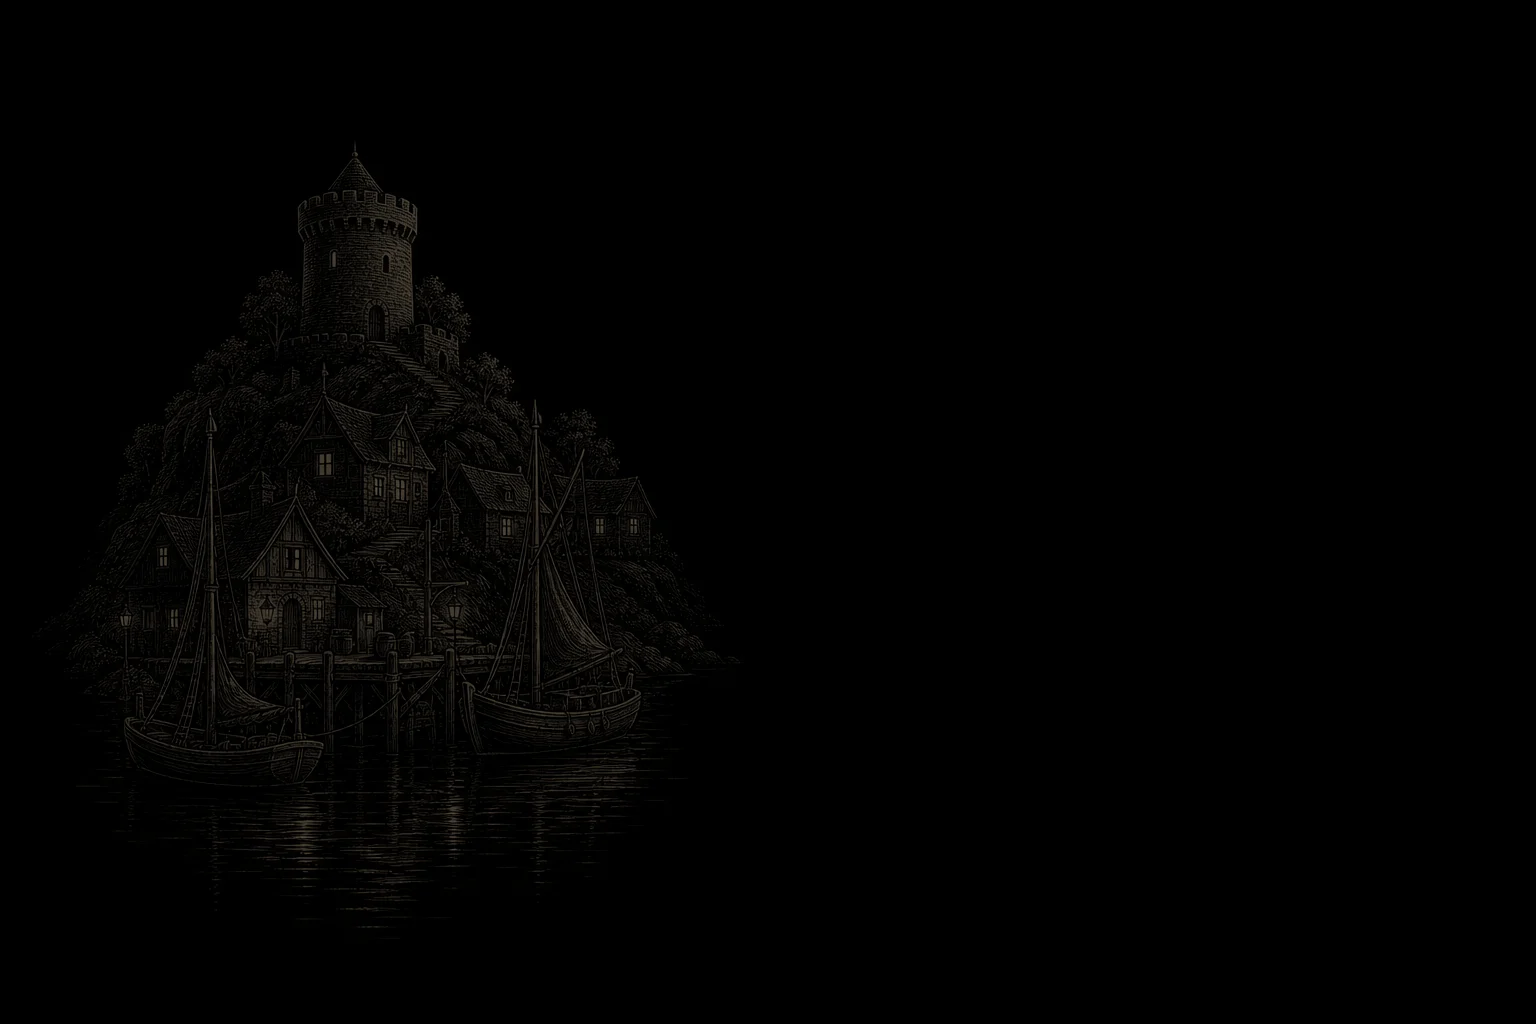
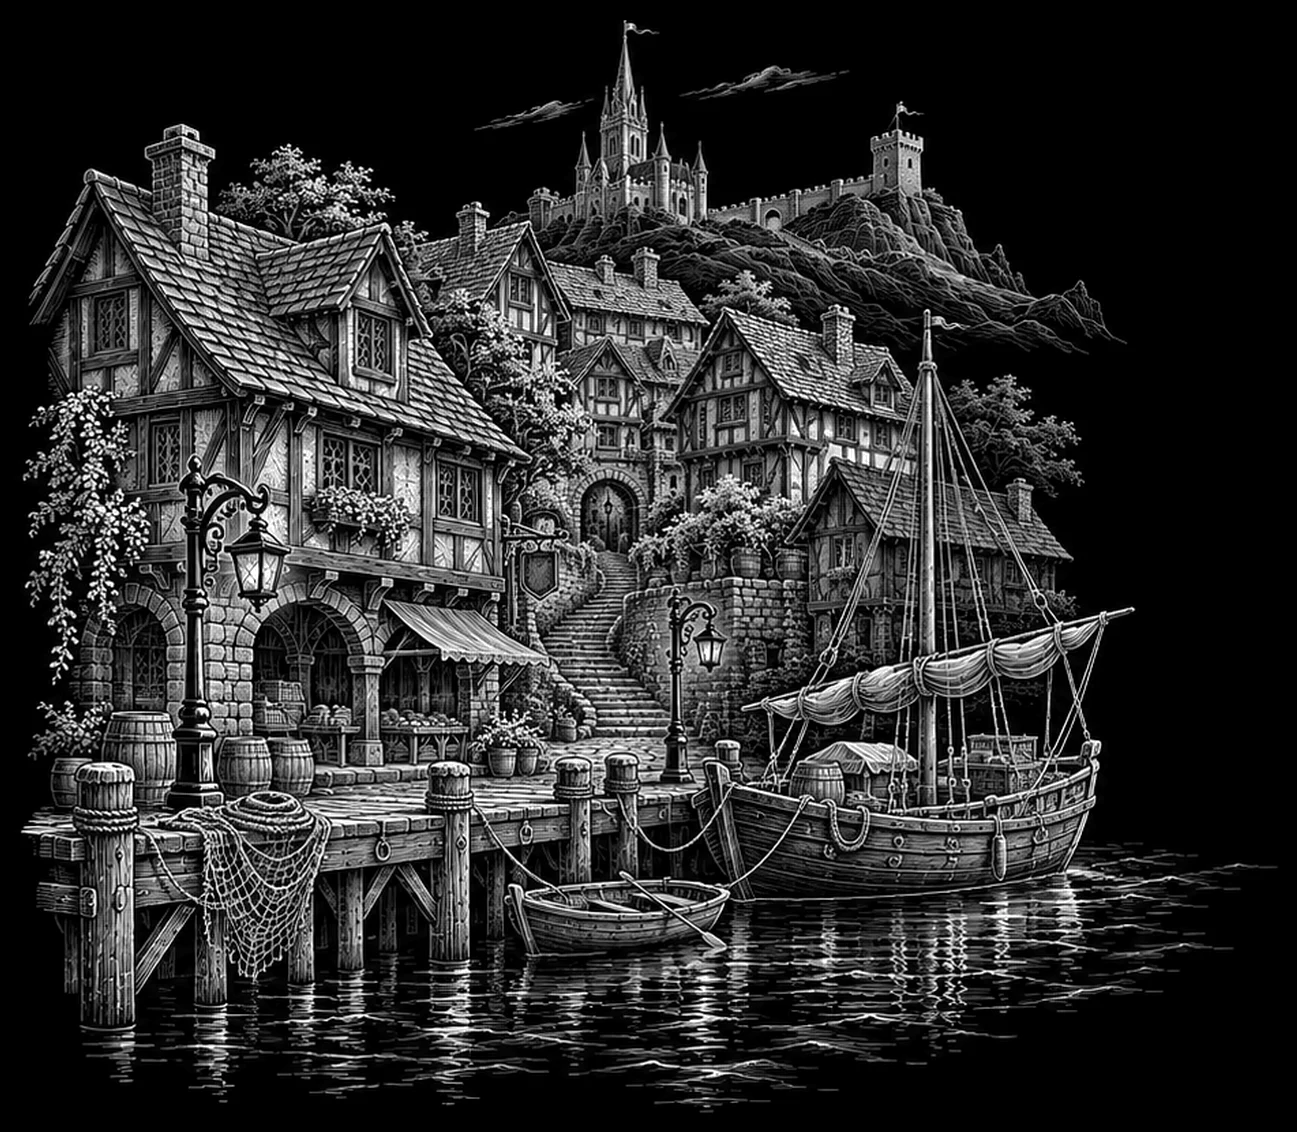
User-made popup backgrounds (color-dodge, left fade); tighter title buttons; dagger sway
Claude-Session: https://claude.ai/code/session_013sjMXzgNW8RNoyAHnNNuvx

diff --git a/index.html b/index.html
@@ -996,7 +996,7 @@ html.phone .onl{font-size:12px!important;margin-top:4px!important}
 .title .tbot{position:absolute;left:0;right:0;bottom:7%;display:flex;justify-content:center}
 .title .ttap{margin:0;font-size:20px;letter-spacing:.06em;color:#f3e6c8;text-shadow:0 2px 6px #000,0 0 14px rgba(0,0,0,.8);animation:tpulse 1.8s ease-in-out infinite}
 @keyframes tpulse{50%{opacity:.45}}
-.title .tmenu{display:flex;gap:24px;justify-content:center;width:100%;padding:0 80px;box-sizing:border-box}
+.title .tmenu{display:flex;gap:16px;justify-content:center;width:100%;padding:0 80px;box-sizing:border-box}
 .title .tmenu[hidden]{display:none}
 .title .tm{flex:0 1 330px;height:68px;border-style:solid;border-width:10px 12px;border-color:transparent;background:none;font:inherit;font-size:21px;font-weight:700;color:#fff3dc;text-shadow:0 1px 0 #2a0e04,0 2px 5px rgba(0,0,0,.7);cursor:pointer;filter:drop-shadow(0 4px 10px rgba(0,0,0,.6));display:flex;align-items:center;justify-content:center;padding:0 0 2px;letter-spacing:.02em}
 .title .tm:hover{filter:brightness(1.12) drop-shadow(0 4px 10px rgba(0,0,0,.6))}
@@ -1007,7 +1007,7 @@ html.phone .onl{font-size:12px!important;margin-top:4px!important}
 html.phone .title .tlogo{width:300px;top:4%}
 html.phone .title .tbot{bottom:5%}
 html.phone .title .ttap{font-size:16px}
-html.phone .title .tmenu{gap:14px;padding:0 80px}
+html.phone .title .tmenu{gap:8px;padding:0 80px}
 html.phone .title .tm{height:52px;font-size:16px;border-width:8px 10px;border-image-width:8px 10px}
 html.on-title #modal{background:rgba(4,6,10,.62)}
 html body .sheet.sheet-frame{width:min(1180px,calc(100vw - 64px))!important;height:min(680px,calc(100dvh - 64px));display:flex!important;flex-direction:column;padding:6px 14px 6px!important;overflow:hidden!important}
@@ -1595,7 +1595,7 @@ html.phone #deco .bl{height:56vh}html.phone #deco .br{height:50vh}
 /* setup / lobby: faint illustration under the leather — single: harbour painting, multi: galleon engraving, lobby: sea chart */
 .sheet-frame.sheet-single,.sheet-frame.sheet-multi,.sheet-frame.sheet-lobby{--fbgi:var(--fbgC,url(assets/fbg/C.webp))}
 .sheet-frame.sheet-multi{--fbgi:url(assets/fbg/B.webp)}.sheet-frame.sheet-lobby{--fbgi:var(--fbgA,url(assets/fbg/A.webp))}
-.sheet-frame.sheet-single::before,.sheet-frame.sheet-multi::before,.sheet-frame.sheet-lobby::before{content:'';position:absolute;inset:0;background:var(--fbgi) left center/cover no-repeat;mix-blend-mode:screen;opacity:.8;pointer-events:none;z-index:0;-webkit-mask-image:linear-gradient(90deg,transparent,#000 6%,#000 94%,transparent),linear-gradient(180deg,transparent,#000 8%,#000 92%,transparent);-webkit-mask-composite:source-in;mask-image:linear-gradient(90deg,transparent,#000 6%,#000 94%,transparent),linear-gradient(180deg,transparent,#000 8%,#000 92%,transparent);mask-composite:intersect}
+.sheet-frame.sheet-single::before,.sheet-frame.sheet-multi::before,.sheet-frame.sheet-lobby::before{content:'';position:absolute;left:0;bottom:0;width:71%;height:100%;background:var(--fbgi) left bottom/contain no-repeat;mix-blend-mode:color-dodge;opacity:.3;pointer-events:none;z-index:0;-webkit-mask-image:linear-gradient(90deg,#000,transparent 70%);mask-image:linear-gradient(90deg,#000,transparent 70%)}
 .sheet-frame>.fhead,.sheet-frame>.fbody{position:relative;z-index:1}
 html body .sheet.sheet-frame.sheet-single,html body .sheet.sheet-frame.sheet-multi,html body .sheet.sheet-frame.sheet-lobby{background:linear-gradient(rgba(14,12,10,.42),rgba(14,12,10,.42)),url(assets/ui/leather.jpg) 0 0/360px 360px repeat!important;background-clip:border-box!important}
 html.lbox,html.lbox body{background:#000}
@@ -2610,7 +2610,7 @@ function robberFig(file,H,o){o=o||{};const k=new THREE.Group();k.userData.glb=1;
     const b2=new THREE.Box3().setFromObject(m),c=b2.getCenter(new THREE.Vector3());m.position.set(-c.x,-b2.min.y,-c.z);
     const w=new THREE.Group();w.add(m);w.rotation.x=o.tilt||0;
     m.traverse(c=>{if(c.isMesh){c.castShadow=true;c.receiveShadow=true;c.material=c.material.clone();if(o.recol&&o.recol[c.material.name]!==undefined){c.material.color.setHex(o.recol[c.material.name]);if(c.material.emissive)c.material.emissive.setHex(c.material.name==='material'?0x0a0310:0x000000);if(c.material.name==='material'){c.material.emissiveIntensity=.3;c.material.metalness=.2;c.material.roughness=.5;}}if(o.lift){c.material.emissive=(c.material.emissive||new THREE.Color()).clone().add(new THREE.Color(o.lift));c.material.emissiveIntensity=1;}}});
-    if(o.dagger){m.traverse(c=>{if(c.isMesh&&/^Material\.00[89]$/.test(c.material.name))c.visible=false;});const d=dagger();d.position.set(-.056,.205,.104);d.rotation.set(0,0,.22);w.add(d);}
+    if(o.dagger){m.traverse(c=>{if(c.isMesh&&/^Material\.00[89]$/.test(c.material.name))c.visible=false;});const d=dagger();d.position.set(-.056,.205,.104);d.rotation.set(0,0,.22);w.add(d);k.userData.dag=d;}
     k.add(w);k.userData.w=w;try{invalidate(true);}catch(e){}};
   const R=RGLB[file]=RGLB[file]||{g:null,cbs:[]};if(R.g)put(R.g);else{R.cbs.push(put);if(R.cbs.length===1)new THREE.GLTFLoader().load(file,g=>{R.g=g;R.cbs.splice(0).forEach(f=>f(g));},undefined,e=>console.warn('fig',e));}
   return k;}
@@ -2736,7 +2736,7 @@ function loop(t){requestAnimationFrame(loop);if(!W.ok||document.hidden)return;co
     if(o.userData.pulseR){const k=.55+Math.sin(s*3)*.12;o.children[0].material.opacity=k;}});
   if(GHOSTM.m)GHOSTM.m.opacity=.38+Math.sin(s*3.2)*.22;W.tgtG.children.forEach(o=>{if(o.userData.pulse===1){const k=.78+Math.sin(s*2.4)*.18;o.children[0].material.opacity=k;}else if(o.userData.pulse===2){o.children[0].material.opacity=.18+Math.sin(s*4)*.12;}});
   if(W.introFX)introFXStep(now);
-  if(W.robber&&W.robber.userData.w&&!W.robber.userData.move){const w=W.robber.userData.w,t=now/1000;w.position.y=.012*(1+Math.sin(t*1.7));w.rotation.z=Math.sin(t*1.15)*.045;w.rotation.y=Math.sin(t*.6)*.14;}
+  if(W.robber&&W.robber.userData.w&&!W.robber.userData.move){const w=W.robber.userData.w,t=now/1000;const dg=W.robber.userData.dag;if(dg){dg.rotation.z=.22+Math.sin(t*2.3)*.16;dg.rotation.x=Math.sin(t*1.7+1)*.12;}w.position.y=.012*(1+Math.sin(t*1.7));w.rotation.z=Math.sin(t*1.15)*.045;w.rotation.y=Math.sin(t*.6)*.14;}
   if(W.camAnim&&W.camAnim.sph){const a=W.camAnim,p=Math.max(0,Math.min(1,(now-a.t0)/a.dur)),e=p<.5?4*p*p*p:1-Math.pow(-2*p+2,3)/2;W.ctl.enableDamping=false;
     const L=(u,v)=>u+(v-u)*e;W.cam.position.setFromSpherical(new THREE.Spherical(L(a.from.r,a.to.r),L(a.from.phi,a.to.phi),L(a.from.theta,a.to.theta))).add(a.tp);W.ctl.target.copy(a.tp);W.cam.lookAt(a.tp);W.ctl.update();try{PERF.dirty=true;}catch(_){}if(p>=1){W.camAnim=null;W.ctl.enableDamping=true;}}
   else if(W.camAnim){const a=W.camAnim,p=Math.min(1,(now-a.t0)/700),e=1-Math.pow(1-p,3);W.ctl.enableDamping=false;W.cam.position.lerpVectors(a.fp,a.cp,e);W.ctl.target.lerpVectors(a.ft,a.tp,e);W.cam.lookAt(W.ctl.target);W.ctl.update();if(p>=1){W.camAnim=null;W.ctl.enableDamping=true;}}
